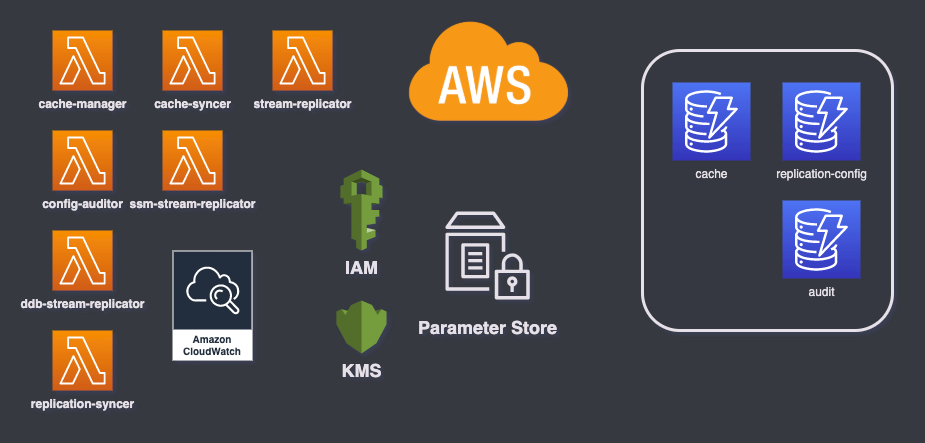
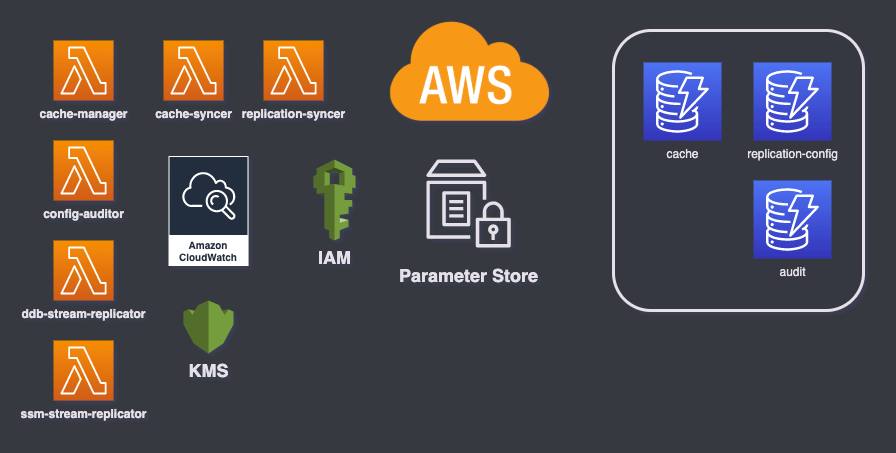
Adding latest docs

diff --git a/faq/index.md b/faq/index.md
@@ -4,6 +4,26 @@ has_children: false
 nav_order: 6
 ---
 
-# Resources
+## FAQ
 
-Foo bar foo bar
+### What about AWS AppConfig? Isn't it it designed for application config management?
+
+Yes! AWS AppConfig is a new AWS tool that sits on top of AWS ParameterStore and supports automated config rollouts, 
+rollbacks, and different deployment strategies. AppConfig is totally compatible with Figgy as it uses ParameterStore as its
+configuration backend.
+
+Figgy & AppConfig perform different duties. Figgy is designed to help you maintain your application config tree and 
+avoid common mistakes in config management pre-deployment. AppConfig kicks-in after or during your deployment.
+
+<br/>
+
+### Why does Figgy need access to my laptop keychain?
+
+Figgy _only_ needs access to the `figgy` namespace of your laptop keychain. Figgy does not have access to any other
+secrets stored in the keychain. When Figgy is deployed in one of its SSO configurations, it will store your SSO password 
+in your laptop keychain for safe keeping. Instead of you having to type in your user, password, and MFA every single day
+when you log in to Figgy, instead Figgy can pull your password from your keychain on your behalf to save you the keystrokes.
+
+<br/>
+
+### 

diff --git a/getting-started/figgy-footprint.md b/getting-started/figgy-footprint.md
@@ -12,7 +12,7 @@ your AWS accounts. Since you should never take provisioning resources in your AW
 _exactly_ what to expect when deploying Figgy into your environment. 
 
 Below is a diagram of the entire Figgy Ecosystem. You will see OKTA, Google, and AWS as Identity Providers in this 
-diagram; however, depending on your configuration two of those will not exist for your deployment.
+diagram; however, depending on your configuration, two of those will not exist for your deployment.
 
 <br/>![Figgy Ecosystem]({{ '/docs/assets/images/deployment/figgy-ecosystem.png' | relative-url }})<br/>
 
@@ -22,7 +22,7 @@ code in our public repository to see what to expect. You can find it here:
 <a href="https://github.com/mancej/figgy/tree/master/terraform/figgy" target="_blank">Figgy Infrastructure Code</a>
 
 ### Resources required for Figgy operation:
-* 7 AWS Lambdas
+* 6 AWS Lambdas
 * 3 AWS DynamoDB Tables
 * AWS Cloudwatch Log Groups
 * AWS IAM Roles & Polices required by the above Lambdas

diff --git a/getting-started/concepts.md b/getting-started/concepts.md
@@ -7,9 +7,10 @@ parent: Getting Started
 
 ## **Figgy Concepts**:
 
-Configuration management is best handled by hierarchies of key-value pairs in a configuration tree. AWS ParameterStore
-natively supports managing access to hierarchies of configurations through IAM policies. Figgy is built on top of 
-ParameterStore to ensure maximum configurability and access control based on your business's needs.   
+Application config management is best managed through hierarchies of key-value pairs in a configuration tree. AWS ParameterStore
+natively supports managing access to hierarchies of configurations through IAM policies. Figgy is a suite of tools
+built on AWS ParameterStore designed to add additional functionality around config management without affecting
+the great AWS native integrations that ParameterStore.
 
 In the Figgy documentation you may see the following nomenclature when referencing configurations and configuration 
 hierarchies. 

diff --git a/getting-started/basics.md b/getting-started/basics.md
@@ -117,12 +117,20 @@ That's it, you now know the basic features of Figgy.
 
 ### Learn more:
 DevOps / Software Architects:
+
 [Advanced Figgy](/docs/getting-started/advanced.html)
+
 [Installation](/docs/getting-started/install.html)
+
 [Architecture](/docs/architecture/index.html)
 
+<br/>
 Figgy Users:
+
 [Figgy Playground](/docs/getting-started/sandbox.html)
+
 [Installation](/docs/getting-started/install.html)
+
 [Commands](/docs/commands/config/index.html)
+
 [User Guides](/docs/user-guides/index.html)

diff --git a/commands/config/get.md b/commands/config/get.md
@@ -7,4 +7,4 @@ parent: Config
 
 # Get
 
-<br/>![Get]({{ '/docs/assets/images/gifs/get.gif' | relative-url }})</br>
+<br/>![Get]({{ '/docs/assets/images/gifs/get.gif' | relative-url }})<br/>
